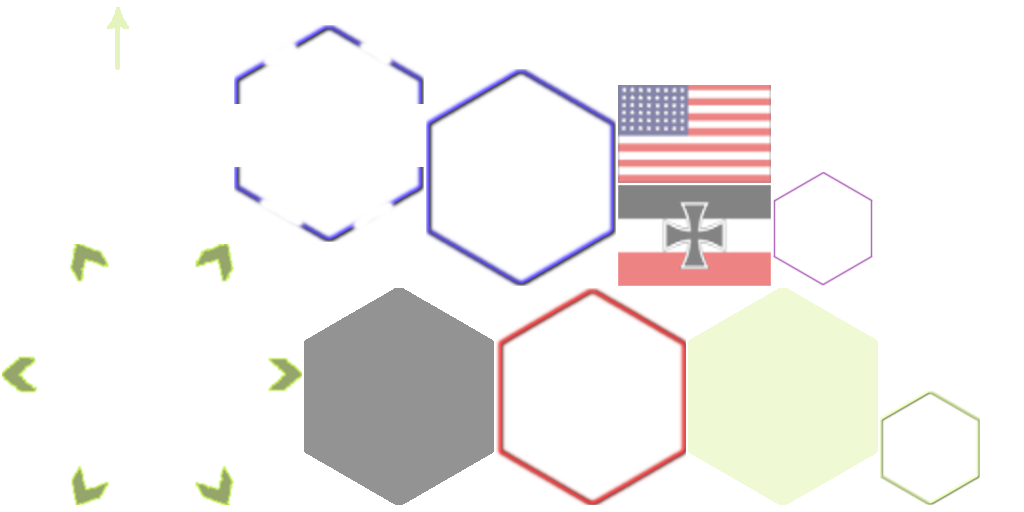
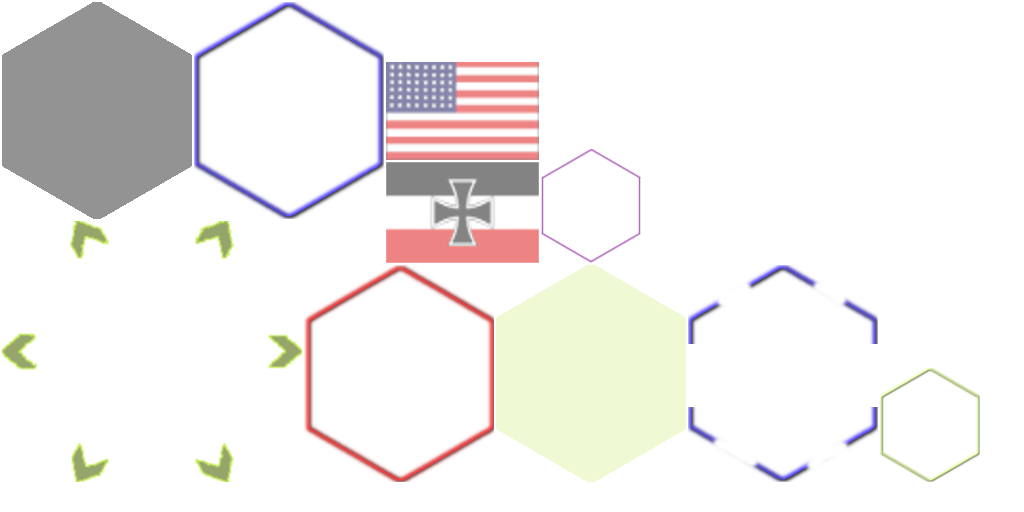
get rid of orientation HexOverlay

diff --git a/core/src/ch/asynk/rustanddust/game/Map.java b/core/src/ch/asynk/rustanddust/game/Map.java
@@ -614,8 +614,6 @@ public abstract class Map extends Board implements MoveToAnimationCb, ObjectiveS
     public void hideMove(Hex hex)       { enableOverlayOn(hex, Hex.MOVE, false); }
     public void showDirections(Hex hex) { enableOverlayOn(hex, Hex.DIRECTIONS, true); }
     public void hideDirections(Hex hex) { enableOverlayOn(hex, Hex.DIRECTIONS, false); }
-    public void showOrientation(Hex hex, Orientation o) { enableOverlayOn(hex, Hex.ORIENTATION, o, true); }
-    public void hideOrientation(Hex hex) { enableOverlayOn(hex, Hex.ORIENTATION, false); }
     public void showExit(Hex hex)       { enableOverlayOn(hex, Hex.EXIT, true); }
     public void hideExit(Hex hex)       { enableOverlayOn(hex, Hex.EXIT, false); }
 

diff --git a/core/src/ch/asynk/rustanddust/game/states/StateRotate.java b/core/src/ch/asynk/rustanddust/game/states/StateRotate.java
@@ -44,7 +44,6 @@ public class StateRotate extends StateCommon
         map.unselectHex(activeUnit.getHex());
         map.hidePath(to);
         map.hideDirections(to);
-        map.hideOrientation(to);
         map.pathBuilder.clear();
         to = null;
     }
@@ -101,7 +100,6 @@ public class StateRotate extends StateCommon
 
         if (ctrl.cfg.mustValidate) {
             map.hideDirections(to);
-            map.showOrientation(to, o);
             ctrl.hud.actionButtons.show(Buttons.DONE.b | ((ctrl.cfg.canCancel) ? Buttons.ABORT.b : 0));
         } else {
             execute();

diff --git a/core/src/ch/asynk/rustanddust/game/Hex.java b/core/src/ch/asynk/rustanddust/game/Hex.java
@@ -29,12 +29,11 @@ public class Hex extends Tile
     public static final int AREA        = 2;
     public static final int MOVE        = 3;
     public static final int DIRECTIONS  = 4;
-    public static final int ORIENTATION = 5;
+    public static final int EXIT        = 5;
     public static final int OBJECTIVE       = 6;
     public static final int OBJECTIVE_HOLD  = 7;
     public static final int OBJECTIVE_GE    = 8;
     public static final int OBJECTIVE_US    = 9;
-    public static final int EXIT        = 10;
 
     public Terrain terrain;
     public int roads;

diff --git a/core/src/ch/asynk/rustanddust/game/states/StateBreak.java b/core/src/ch/asynk/rustanddust/game/states/StateBreak.java
@@ -25,7 +25,6 @@ public class StateBreak extends StateCommon
         map.hideBreakUnits();
         map.hideMove(to);
         map.hideDirections(to);
-        map.hideOrientation(to);
         if (activeUnit != null) map.hideMove(activeUnit.getHex());
     }
 
@@ -66,7 +65,6 @@ public class StateBreak extends StateCommon
 
             if (ctrl.cfg.mustValidate) {
                 map.hideDirections(to);
-                map.showOrientation(to, o);
                 ctrl.hud.actionButtons.show(Buttons.DONE.b);
             } else {
                 doRotation(o);
